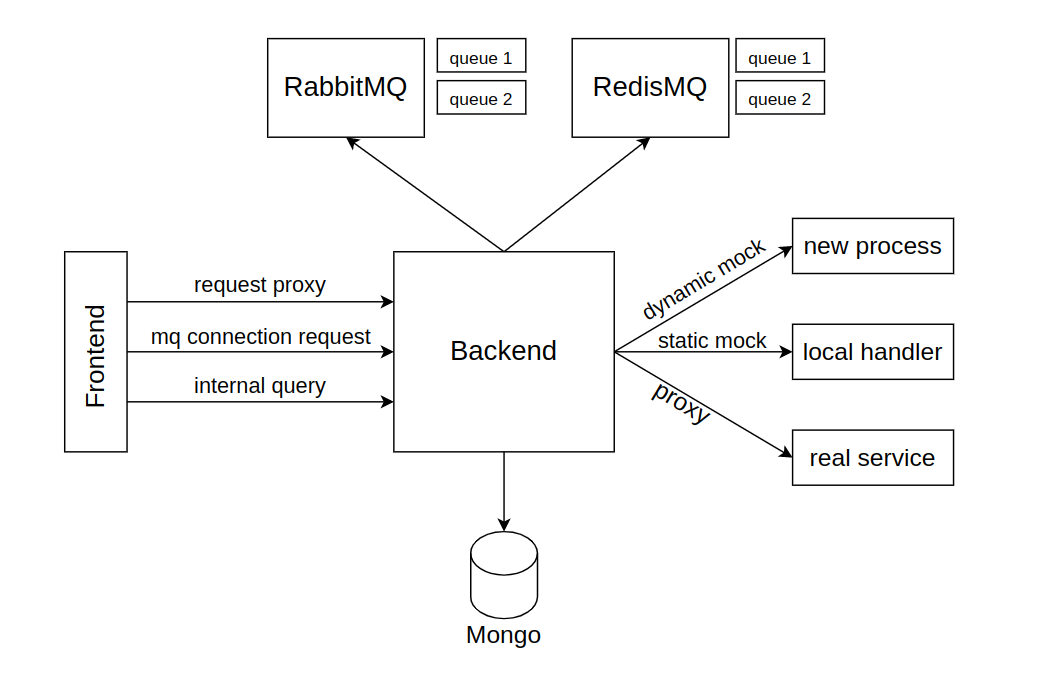
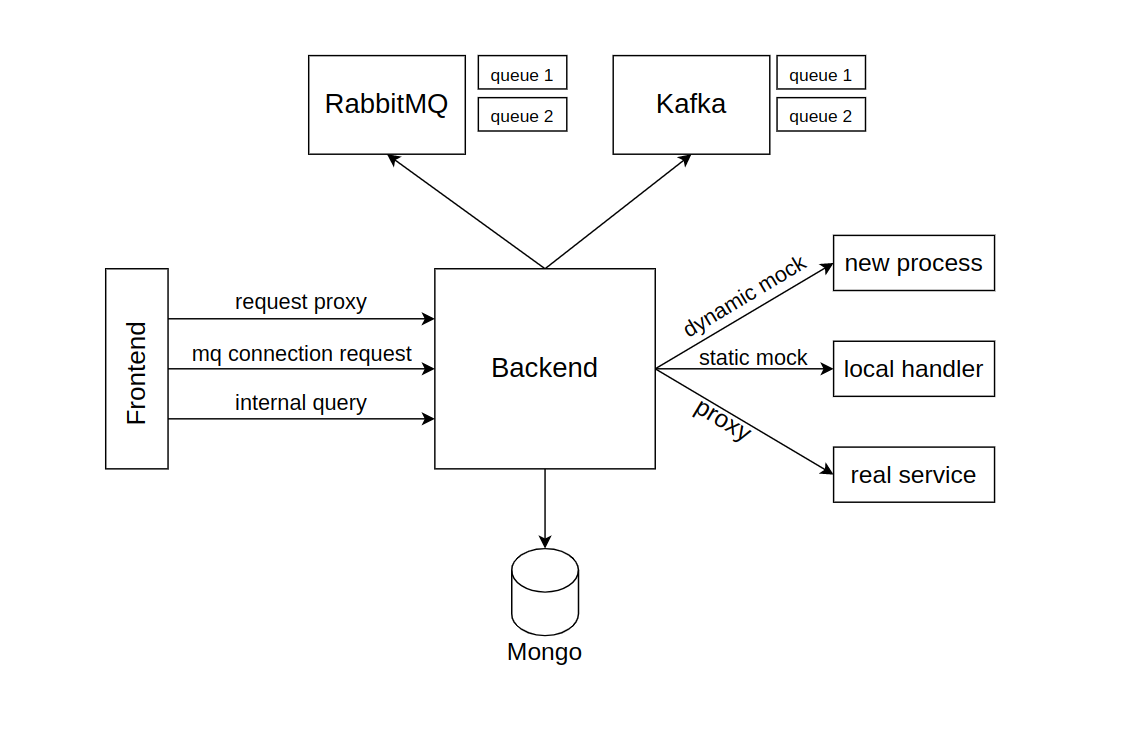
change redis to kafka in arch overview

diff --git a/architecture.md b/architecture.md
@@ -69,13 +69,13 @@ Backend полностью будет написан на языке Golang, в 
 
 ### Работа с Брокерами сообщений | Чтение
 
-Нужно в один моменте слушать N очередей с разных брокеров. Чтобы это выполнять эффективно, при старте сервера заведем пул горутин, которые будут держать активные сессии с каждым из брокеров.
+Нужно в один моменте слушать N очередей с разных брокеров. Чтобы это выполнять эффективно, при старте сервера заведем пул горутин, которые будут открывать соединения с брокерами не некторое время.
 
 ![block_queue](docs/blocking_queue.png)
 
-Создадим канал, в котором будут распределяться очереди. После того как горутина захватила очередь для чтения, она перестраивает сессию с брокером, чтобы читать именно с этой очереди, после чего читает несколько секунд и скидывет эту очередь опять в канал.
+Создадим канал, в котором будут распределяться очереди. После того как горутина захватила очередь для чтения, она настраивает сессию с брокером, чтобы читать именно с этой очереди, после чего читает несколько секунд и скидывет эту очередь опять в канал, закрывая при этом соединение.
 
-При таком подходе у нас фиксированное кол-во tcp соединений с брокерами, меняется лишь то, с каких очередей мы читаем.
+При таком подходе у нас ограничено кол-во tcp соединений с брокерами.
 
 ### Работа с Брокерами сообщений | Запись
 
